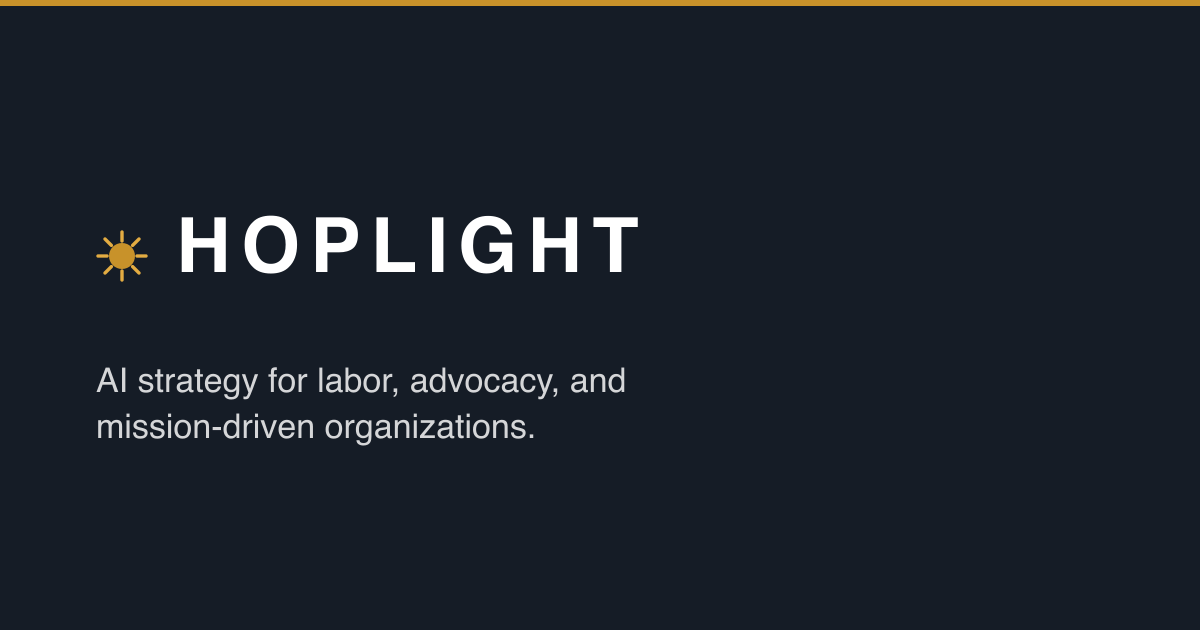
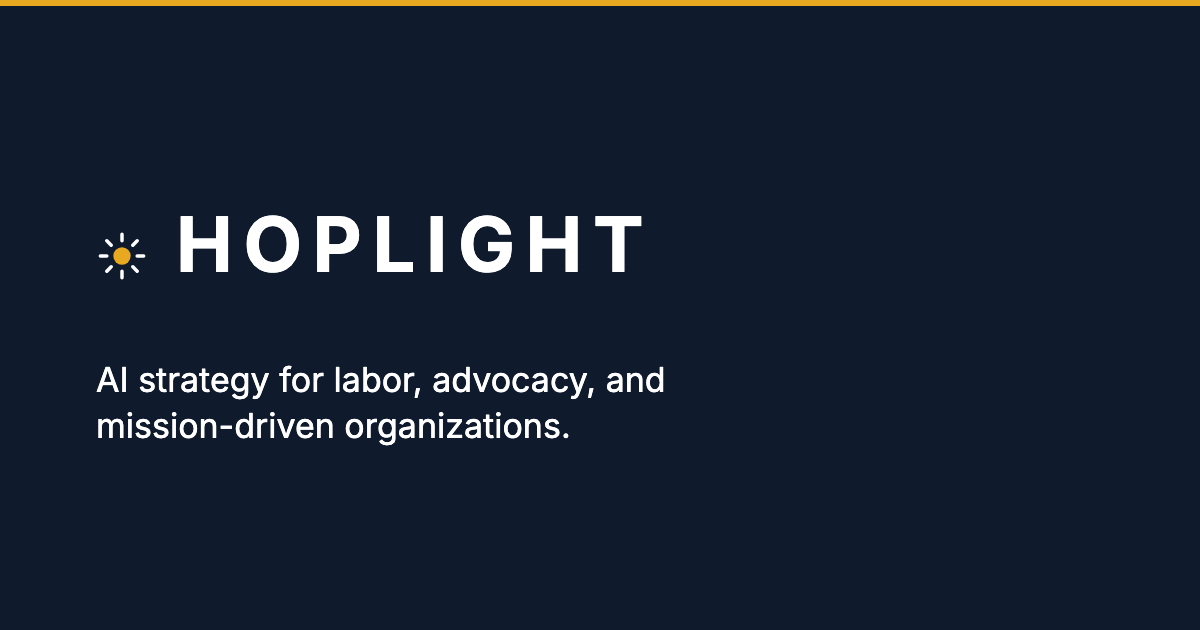
hoplight-site: both link-preview cards move to the current navy, gold and white in Inter; the build now refuses a retired colour on either [design]
og.svg / og.png (the og:image every page shares) leave the June palette (#151C26 ground,
#C8922A and #E3AC42 gold, Helvetica) for --ink #0F1B2D, --gold-hot #E8A820 and white, set in
Inter, with the header's own beacon drawing. Re-rendered at 1200x630 by a new
scripts/gen-og-card.mjs (npm run og:build), which draws with headless Chrome and embedded Inter
because sharp on macOS silently swapped Inter for a system face (its render was byte-identical
to a no-font control). The script refuses to write if the Inter render matches that control.

/api/og: title and wordmark go from the retired cream #F7F5F0 to white (the same one-line change
as unlanded ed034af on hopmock1, so that branch still merges clean); the gradient stop becomes
--ink-mid; the footer wordmark now gets Inter instead of the fallback face.

L8: check-claims-and-palette.mjs guard 5 (preview-palette) written first and run red on fe87e89,
14 hits across public/og.svg and src/app/api/og/route.tsx; now PASS. It fails on the four retired
colours, on any hex that is not a globals.css :root token, and on og.svg text not led by Inter.
prebuild runs it (--only preview-palette), so Vercel and CI builds stop on it.

diff --git a/src/app/api/og/route.tsx b/src/app/api/og/route.tsx
@@ -12,7 +12,7 @@ import { ImageResponse } from 'next/og';
 
 const NAVY = '#0F1B2D';
 const GOLD = '#E8A820';
-const PAPER = '#F7F5F0';
+const PAPER = '#FFFFFF';
 
 async function loadInter(text: string, weight: 400 | 700): Promise<ArrayBuffer | null> {
   try {
@@ -79,8 +79,10 @@ export async function GET(req: Request) {
     SUB_MAX,
   );
 
+  // The bold subset carries the footer wordmark's letters too (rendered uppercase), or the footer
+  // falls back to the default face whenever the title does not happen to contain them.
   const [bold, regular] = await Promise.all([
-    loadInter(title, 700),
+    loadInter(`${title}HOPLIGHT`, 700),
     loadInter(sub, 400),
   ]);
 
@@ -99,7 +101,9 @@ export async function GET(req: Request) {
           justifyContent: 'center',
           padding: '80px',
           backgroundColor: NAVY,
-          backgroundImage: `linear-gradient(135deg, ${NAVY} 0%, #16253d 100%)`,
+          // Navy (--ink) to --ink-mid. Every hex in this file has to be a globals.css token, or
+          // check:claims guard 5 fails the build.
+          backgroundImage: `linear-gradient(135deg, ${NAVY} 0%, #162640 100%)`,
         }}
       >
         <div
@@ -145,6 +149,7 @@ export async function GET(req: Request) {
             fontWeight: 700,
             color: PAPER,
             marginTop: 'auto',
+            fontFamily: fonts.length ? 'Inter' : 'sans-serif',
             letterSpacing: '0.08em',
             textTransform: 'uppercase',
             opacity: 0.85,
